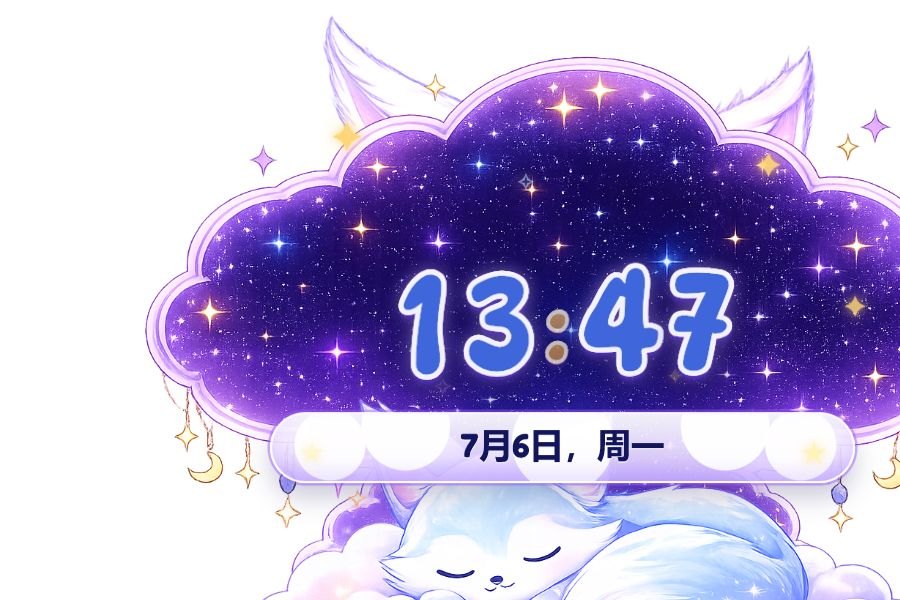
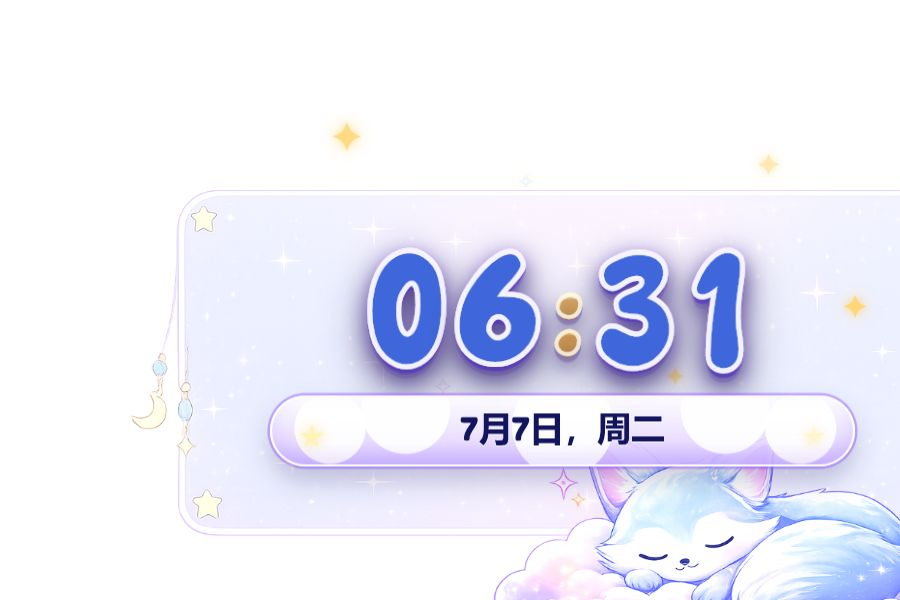
Hide ears and enlarge clock digits

diff --git a/css/style.css b/css/style.css
@@ -6,7 +6,7 @@
   --source-width: 1536;
   --source-height: 1024;
 
-  --time-size: 104px;
+  --time-size: 118px;
   --date-size: 27px;
   --time-top: 188px;
   --date-top: 318px;
@@ -99,6 +99,7 @@ body {
 }
 
 .ear-layer {
+  display: none;
   z-index: 1;
   opacity: 1;
   filter: saturate(1.04) brightness(1.03);